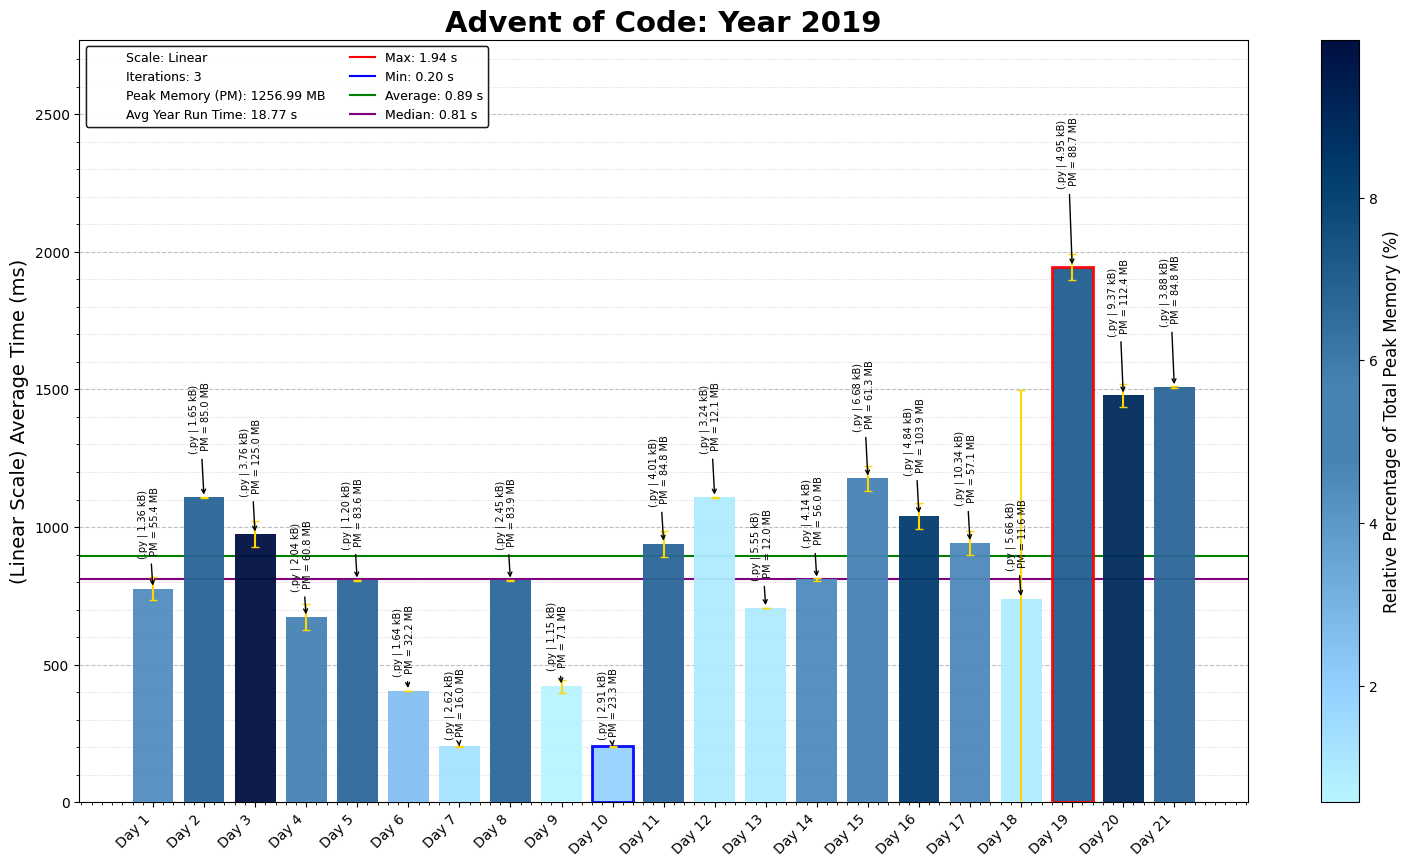
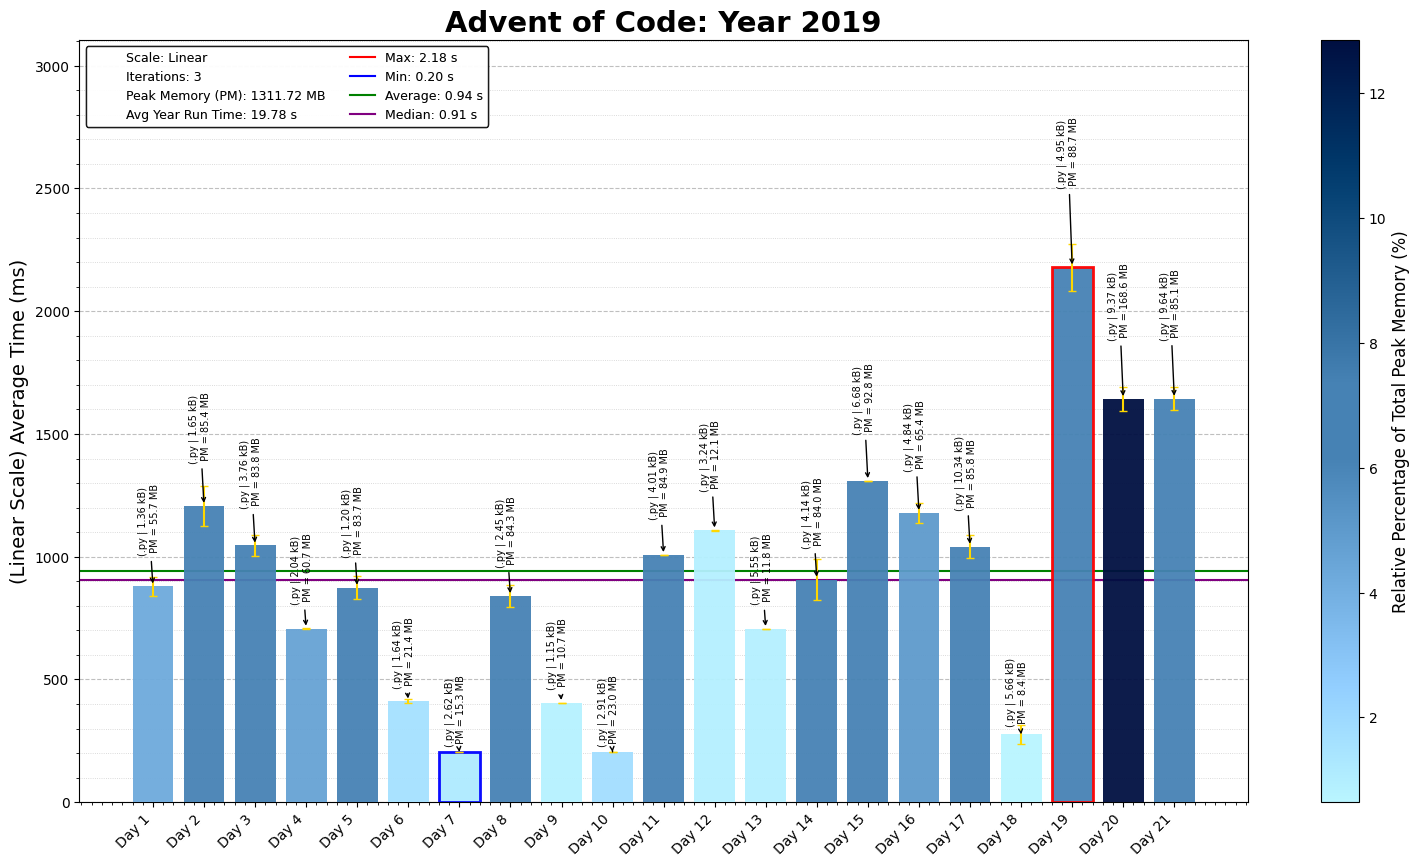
2019 Day 21 (w/ z3 soln)

diff --git a/2019/21/2019Day21.py b/2019/21/2019Day21.py
@@ -16,6 +16,7 @@ start_time = time.time()
 intcode_path = os.path.join(os.path.dirname(__file__), "..", "Intcode_Computer")
 sys.path.append(intcode_path)
 # from Intcode_Computer import Intcode_CPU
+# from z3 import BoolVal, BitVec, Bool, If, And, Not, Or, substitute, Solver, sat
 
 # Load the input data from the specified file path
 D21_file = "Day21_input.txt"
@@ -27,108 +28,240 @@ with open(D21_file_path) as file:
     input_program = [int(num) for num in input_data]
 
 class Intcode_Springdroid:
+    """
+    A specialized Intcode computer designed to execute SpringScript programs 
+    for controlling a droid in a terrain traversal problem.
+
+    This class integrates an Intcode-based virtual machine with SpringScript logic, 
+    allowing the droid to analyze terrain, generate movement scripts, and execute them 
+    to determine safe traversal paths.
+    """
     MAX_MEMORY = 15
 
-    def __init__(self, springscript: list[int]):
-        self.script = springscript
-        self.temp_val = False
-        self.jump_val = False
+    def __init__(self, droid_cpu: list[int]):
         from Intcode_Computer import Intcode_CPU
-        self.droid = Intcode_CPU(springscript, debug = False)
+        self.droid_code = droid_cpu
+        self.droid = Intcode_CPU(droid_cpu, debug=False)
 
     def run_droids(self, script: str, visualize: bool = False):
+        """
+        Executes a given SpringScript program using a droid, optionally visualizing the terrain.
+
+        This method takes a SpringScript program as input, replicates the droid, and feeds
+        each instruction as external input to the droid. It can visualize the output if required.
+        """
         inp_list = [ord(val) for val in list(script)]
         use_droid = self.droid.replicate()
+
         for num in inp_list:
             use_droid.paused = False
-            use_droid.process_program(external_input = num)
-            if visualize:
-                self.build_structure(use_droid.get_result('output')[:-1], True)
+            use_droid.process_program(external_input=num)
+        if visualize:
+            self.print_hull(use_droid.get_result('output')[:-1], True)
         output = use_droid.get_result('output')
-        return max(output)
+        return output
 
-    def build_structure(self, nav_output: list[int] = None, visualize: bool = False):
+    @staticmethod
+    def print_hull(droid_output: list[int], visualize: bool = True) -> list[str]:
         """
-        Process navigation output and build the ship hull.
-        Optionally visualize the maze.
+        Display the hull in the current state.
         """
-        x, y = 1, 1
-        structure = {}
-        scaffold = set()
-        for ascii_code in nav_output:
-            if ascii_code == 10:
-                y += 1
-                x = 0
-            else:
-                char = chr(ascii_code)
-                structure[(x, y)] = char
-                if char in '^v<>':
-                    self.robot_start = (x, y)
-                if char == '#':
-                    scaffold.add((x, y))
-            x += 1
+        hull_grid = ''.join(map(chr, droid_output))
+        hull_rows = hull_grid.strip().split('\n')
 
         if visualize:
-            self.print_maze(structure)
+            print('\n'.join(hull_rows))
+            print("_" * len(hull_rows[0]))
 
-        self.structure = structure
-        self.scaffold = scaffold
-        return structure
+        return hull_rows
 
-    def print_maze(self, grid_dict: dict, path_taken: dict = {}):
+    @staticmethod
+    def symbolic_execution(step_registers: str, length: int = MAX_MEMORY):
         """
-        Display the maze with the current state, optionally highlighting a path.
+        Symbolically executes a program of a given length
+
+        Returns (f, prog):
+        - f is a lambda function which should be called with a map
+            of sensor readings, and returns the symbolic result
+        - prog is a list of (opcode, reg_in, reg_out) tuples
         """
-        coords_set = set(grid_dict.keys())
-        min_x = min(x for x, _ in coords_set)
-        max_x = max(x for x, _ in coords_set)
-        min_y = min(y for _, y in coords_set)
-        max_y = max(y for _, y in coords_set)
+        from z3 import BoolVal, BitVec, Bool, If, And, Not, Or, substitute
+        # Initialize the T and J registers to False
+        T = BoolVal(False)
+        J = BoolVal(False)
+        sensors = {c: Bool(c) for c in step_registers}
+        program = []
 
-        tiles_grid = []
-        for y in range(min_y, max_y + 1):
-            row = ''
-            for x in range(min_x, max_x + 1):
-                if (x, y) in path_taken:
-                    row += path_taken.get((x, y), ' ')
-                else:
-                    row += grid_dict.get((x, y), ' ')
+        for i in range(length):
+            op = BitVec('op_%i' % i, 2)
+            reg_in = BitVec('reg_in_%i' % i, 4)
+            reg_out = BitVec('reg_out_%i' % i, 1)
 
-            tiles_grid.append(row)
+            lhs = T  # default value
+            for (i, r) in enumerate(list(sensors.values()) + [T, J]):
+                lhs = If(reg_in == i, r, lhs)
 
-        print("\n".join(tiles_grid))
-        print("_" * len(tiles_grid[0]))
-        return tiles_grid
+            rhs = If(reg_out == 0, T, J)
+            result = If(op == 0, And(lhs, rhs),
+                        If(op == 1, Or(lhs, rhs),
+                                    Not(lhs)))
 
-walk_script = """\
-    NOT A J
-    NOT B T
-    OR T J
-    NOT C T
-    OR T J
-    AND D J
-    WALK
-    """
+            (T, J) = (If(reg_out == 0, result, T),
+                        If(reg_out == 1, result, J))
 
-run_script ="""\
-    NOT A J
-    NOT B T
-    OR T J
-    NOT C T
-    OR T J
-    AND D J
-    NOT H T
-    NOT T T
-    OR E T
-    AND T J
-    RUN
-    """
+            program.append([op, reg_in, reg_out])
 
-springs = Intcode_Springdroid(input_program)
-walk_score = springs.run_droids(walk_script)
-print("Part 1:", walk_score)
+        f = lambda vs: substitute(J,
+            *[(v, BoolVal(vs[k]) if type(vs[k]) is bool else vs[k])
+                for (k, v) in sensors.items()])
 
-run_score = springs.run_droids(run_script)
-print("Part 2:", run_score)
-# print(f"\nExecution Time: {time.time() - start_time:.5f}s")
-# print(f"Execution Time = {time.time() - start_time:.5f}s")
+        return (f, program)
+
+    @staticmethod
+    def decode(prog, model, step_registers: str):
+        """
+        Converts a program + solved model into SpringScript
+        """
+        if len(model) == 0:
+            return ' '
+        ops = {0: 'AND', 1: 'OR', 2: 'NOT'}
+        input_registers = step_registers + "TJ"
+        inputs = {i: c for (i, c) in enumerate(input_registers)}
+        outputs = {0: 'T', 1: 'J'}
+        script = ''
+        for (op, reg_in, reg_out) in prog:
+            op = model.eval(op).as_long()
+            reg_in = model.eval(reg_in).as_long()
+            reg_out = model.eval(reg_out).as_long()
+
+            op = ops.get(op, 'NOT')
+            reg_in = inputs.get(reg_in, 'T')
+            reg_out = outputs.get(reg_out, 'T')
+            script += "%s %s %s\n" % (op, reg_in, reg_out)
+        return script[:-1]
+
+    def solve_for_maps(self, maps, step_registers: str, length: int = MAX_MEMORY):
+        """
+        Uses symbolic execution and constraint solving to determine a valid
+        SpringScript program that ensures safe traversal of given terrain maps.
+        """
+        from z3 import Solver, And, Not, Or, sat
+        (j, prog) = self.symbolic_execution(step_registers, length)
+        solver = Solver()
+        for m in maps:
+            jumps_at = []
+            for (i, c) in enumerate(m):
+                airborn = Or(jumps_at[-3:])
+                if c != '#':
+                    solver.add(airborn)
+                sensors = {c: i + j + 1 >= len(m) or m[i + j + 1] == '#'
+                            for (j, c) in enumerate(step_registers)}
+                jumps_at.append(And(Not(airborn), j(sensors)))
+        r = solver.check()
+        return self.decode(prog, solver.model(), step_registers) if r == sat else False
+
+    def minimize_for_maps(self, maps: list[str], step_registers: str) -> str:
+        """
+        Finds the smallest program length that successfully solves all given terrain maps.
+
+        This function iteratively increases the allowed program length, starting from 5,
+        and attempts to solve the maps using `solve_for_maps`. It returns the first valid
+        SpringScript program found.
+        """
+        for i in range(5, self.MAX_MEMORY + 1):
+            # Call the multi-map function instead
+            r = self.solve_for_maps(maps, step_registers, i)
+            if r:
+                return r
+        return False
+
+    def analyze_terrain(self, droid_script: str, outputs: list[int] = None) -> str:
+        """
+        Analyzes the terrain directly below the droid based on either provided outputs
+        or by executing the given SpringScript program.
+        """
+        if outputs:
+            test_output = outputs
+        else:
+            test_output = self.run_droids(droid_script, visualize=False)
+        hull_map = self.print_hull(test_output, visualize=False)
+
+        for row_no, row in enumerate(hull_map):
+            if len(row) >= 1 and row[0] == "@":
+                droid_pos = row_no
+                break
+        terrain = hull_map[droid_pos + 1]
+        return terrain
+
+    def write_springscript(self, speed: str, test_script: str = None, full_map: list[str] = [],
+                            outputs: list[int] = [], visualize: bool = False):
+        """
+        Iteratively generates a valid SpringScript program that allows the droid
+        to traverse the given terrain, ensuring it has at most 15 instructions.
+        """
+        if test_script is None:
+            test_script = speed + "\n"
+            instructions = []
+        else:
+            instructions = test_script.split('\n')[:-2]
+
+        step_registers = "ABCD" if speed == "WALK" else "ABCDEFGHI"
+        terrain = self.analyze_terrain(test_script, outputs)
+        new_command = self.solve_for_maps([terrain], step_registers)
+
+        instructions.append(new_command)
+        full_map.append(terrain)
+        droid_script = "\n".join(instructions) + f"{speed}\n"
+
+        if len(droid_script) >= 7 * self.MAX_MEMORY:
+            droid_script = self.minimize_for_maps(full_map, step_registers)
+            droid_script += f"\n{speed}\n"
+
+        current_output = self.run_droids(droid_script, visualize)
+        if max(current_output) >= 128:
+            if visualize:
+                print("Final Droid Map\n", "\n".join(full_map), sep="")
+                print("Final Droid Script\n", droid_script, sep="")
+                print("Hull Damage:", max(current_output))
+            return droid_script, current_output
+
+        return self.write_springscript(speed, droid_script, full_map, current_output, visualize)
+
+method = " "
+springdroids = Intcode_Springdroid(input_program)
+
+if method == "z3":
+    walk_script, walk_score = springdroids.write_springscript("WALK", visualize=False)
+    run_script, run_score = springdroids.write_springscript("RUN", visualize=False)
+
+else:
+    walk_script = """\
+        NOT A J
+        NOT B T
+        OR T J
+        NOT C T
+        OR T J
+        AND D J
+        WALK
+        """
+
+    run_script ="""\
+        NOT A J
+        NOT B T
+        OR T J
+        NOT C T
+        OR T J
+        AND D J
+        NOT H T
+        NOT T T
+        OR E T
+        AND T J
+        RUN
+        """
+    walk_score = springdroids.run_droids(walk_script)
+    run_score  = springdroids.run_droids(run_script)
+
+print("Part 1:", max(walk_score))
+print("Part 2:", max(run_score))
+
+print(f"Execution Time = {time.time() - start_time:.5f}s")

diff --git a/2019/README_2019.md b/2019/README_2019.md
@@ -5,12 +5,12 @@ This repository contains coding solutions for the 2019 Advent of Code. Each day'
 ## Day-by-Day Coding Overview
 
 1. **Day 1 - The Tyranny of the Rocket Equation**: Use recursive calculations to compute fuel requirements based on mass.
-2. **Day 2 - 1202 Program Alarm**: Implement a simple Intcode computer, focusing on list manipulation and opcode handling. `Intcode CPU v1.0`
+2. **Day 2 - 1202 Program Alarm**: Implement a simple Intcode computer, focusing on list manipulation and opcode handling. `Intcode CPU` v1.0
 3. **Day 3 - Crossed Wires**: Find intersection points on a grid, emphasizing coordinate mapping and distance calculations.
 4. **Day 4 - Secure Container**: Use constraints on digit sequences to filter potential passwords.
-5. **Day 5 - Sunny with a Chance of Asteroids**: Extend Intcode to handle parameters with multiple modes. `Intcode CPU v2.0/2.1`
+5. **Day 5 - Sunny with a Chance of Asteroids**: Extend Intcode to handle parameters with multiple modes. `Intcode CPU` v2.0/2.1
 6. **Day 6 - Universal Orbit Map**: Build a tree structure to represent orbits and calculate distances between nodes.
-7. **Day 7 - Amplification Circuit**: Chain Intcode programs with feedback loops to maximize signal output. `Intcode Amplifiers (v3.1)`
+7. **Day 7 - Amplification Circuit**: Chain Intcode programs with feedback loops to maximize signal output. `Intcode Amplifiers` (v3.1)
 8. **Day 8 - Space Image Format**: Parse layered image data, focusing on frequency counting and grid rendering.
 9. **Day 9 - Sensor Boost**: Extend Intcode to support relative modes, enabling dynamic memory expansion.`Intcode CPU v4.0`
 10. **Day 10 - Monitoring Station**: Calculate visibility using polar coordinates to determine optimal vantage points.
@@ -26,9 +26,9 @@ This repository contains coding solutions for the 2019 Advent of Code. Each day'
 20. **Day 20 - Donut Maze**: Implement BFS for shortest paths in a multi-layered toroidal maze.
 21. **Day 21 - Springdroid Adventure**: Develop a custom program for a robot using specific jumping rules. `Intcode Springdroid`
 22. **Day 22 - Slam Shuffle**: Model a card shuffling algorithm using modular arithmetic.
-23. **Day 23 - Category Six**: Implement a network of Intcode programs with inter-process communication.`IntCode Network`
+23. **Day 23 - Category Six**: Implement a network of Intcode programs with inter-process communication.`Intcode Network`
 24. **Day 24 - Planet of Discord**: Apply cellular automata to simulate a multi-layered ecosystem.
-25. **Day 25 - Cryostasis**: Develop an Intcode interpreter with interaction for a text-based adventure game.`IntCode TextGame`
+25. **Day 25 - Cryostasis**: Develop an Intcode interpreter with interaction for a text-based adventure game.`Intcode TextGame`
 
 ---
 
